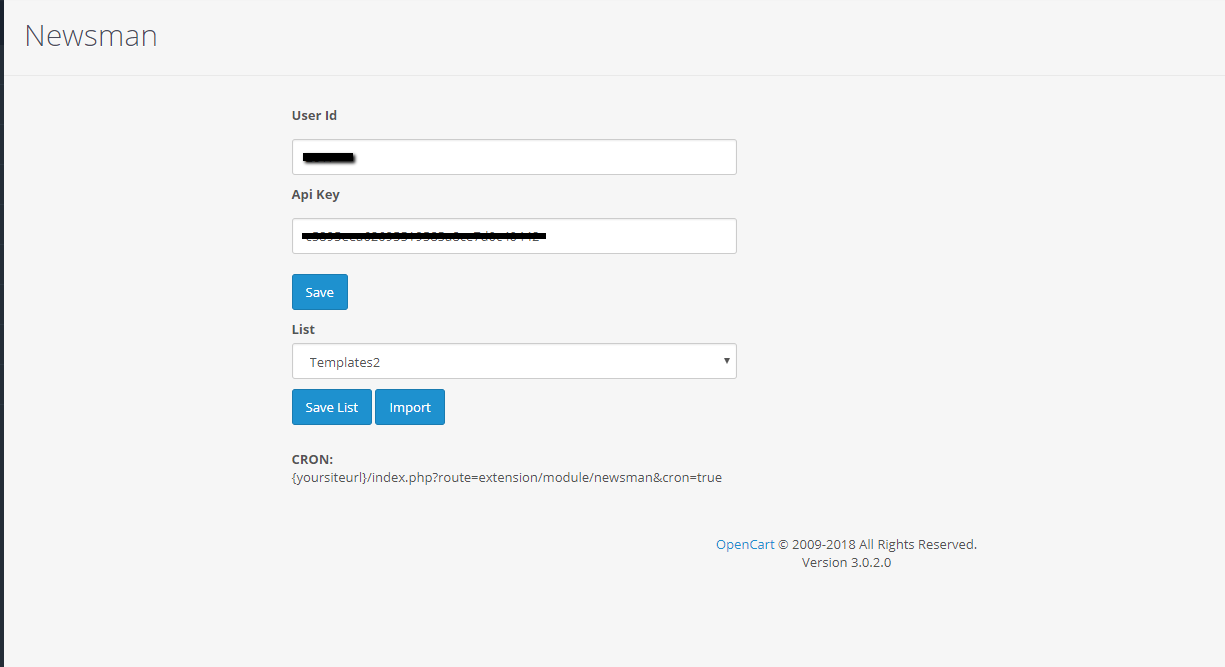
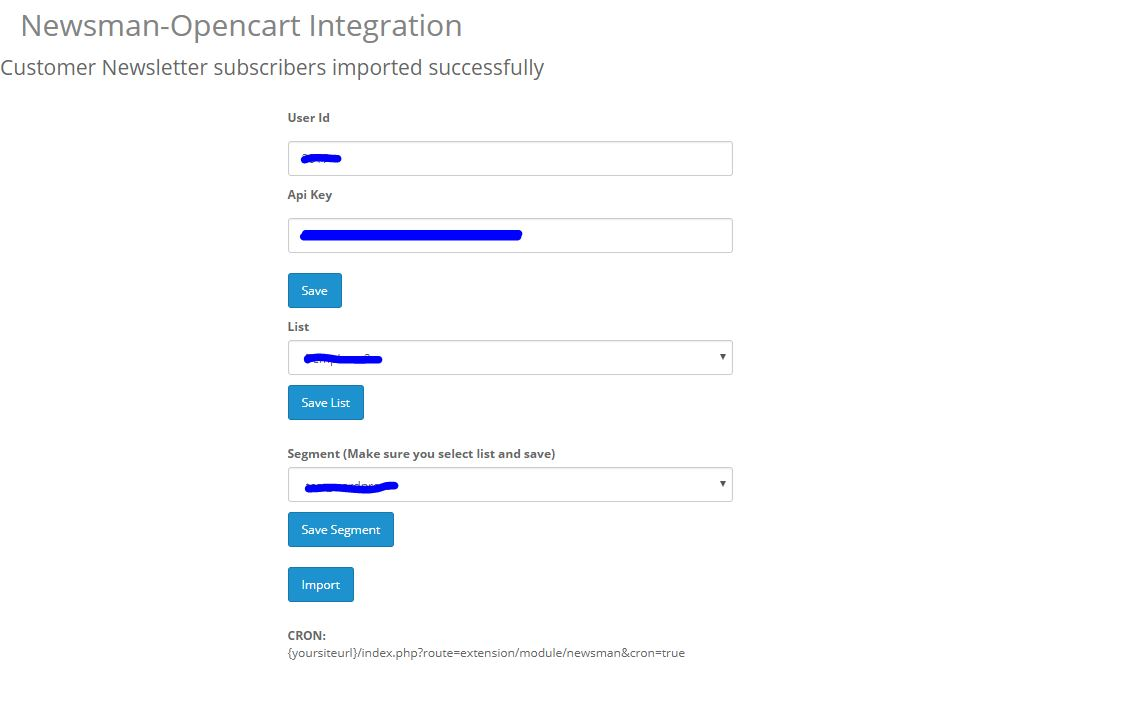
Add segment sync feature

diff --git a/src/admin/controller/extension/module/newsman.php b/src/admin/controller/extension/module/newsman.php
@@ -31,9 +31,11 @@ class ControllerExtensionModuleNewsman extends Controller
 		$data['column_left'] = $this->load->controller('common/column_left');
 		$data['footer'] = $this->load->controller('common/footer');
 		$data["button_save"] = "Save / Import";
+		$data["message"] = "";
 
 		if (isset($_POST["newsmanSubmit"]))
 		{
+			$this->restCall = "https://ssl.newsman.app/api/1.2/rest/{{userid}}/{{apikey}}/{{method}}";
 			$this->restCall = str_replace("{{userid}}", $_POST["userid"], $this->restCall);
 			$this->restCall = str_replace("{{apikey}}", $_POST["apikey"], $this->restCall);
 			$this->restCall = str_replace("{{method}}", "list.all.json", $this->restCall);
@@ -66,47 +68,67 @@ class ControllerExtensionModuleNewsman extends Controller
 			$data["message"] = "List is saved";
 		}
 
-		//List Import
+		if (isset($_POST["newsmanSubmitSaveSegment"]))
+		{
+			$settings = $setting;
+			$settings["newsmansegment"] = $_POST["segment"];
+
+			$this->model_setting_setting->editSetting('newsman', $settings);
+
+			$data["message"] = "Segment is saved";
+		}
+
+//List Import
 		if (isset($_POST["newsmanSubmitList"]))
 		{
+			$this->restCallParams = "https://ssl.newsman.app/api/1.2/rest/{{userid}}/{{apikey}}/{{method}}{{params}}";
 			$this->restCallParams = str_replace("{{userid}}", $setting["newsmanuserid"], $this->restCallParams);
 			$this->restCallParams = str_replace("{{apikey}}", $setting["newsmanapikey"], $this->restCallParams);
 			$this->restCallParams = str_replace("{{method}}", "import.csv.json", $this->restCallParams);
-
 			$client = new Newsman_Client($setting["newsmanuserid"], $setting["newsmanapikey"]);
-
 			$csvdata = array();
-
 			$this->load->model('customer/customer');
 			$csvdata = $this->model_customer_customer->getCustomers();
-
-			$csv = "email,name,source" . PHP_EOL;
-			foreach ($csvdata as $row)
+			if (empty($csvdata))
 			{
-				if($row["newsletter"] == "1" && $row["status"] == "1")
+				$data["message"] .= PHP_EOL . "No customers in your store";
+				$this->SetOutput($data);
+				return;
+			}
+			//Import
+			$batchSize = 5000;
+			$customers_to_import = array();
+			$segments = null;
+			if ($setting["newsmansegment"] != "1" && $setting["newsmansegment"] != null)
+			{
+				$segments = array($setting["newsmansegment"]);
+			}
+			foreach ($csvdata as $item)
+			{
+				$customers_to_import[] = array(
+					"email" => $item["email"],
+					"firstname" => $item["firstname"]
+				);
+				if ((count($customers_to_import) % $batchSize) == 0)
 				{
-					$csv .= $row['email'] . ","
-						. $row['firstname'] . " " . $row["lastname"] . ","
-						. "opencart3 newsman plugin"
-						. PHP_EOL;
+					$this->_importData($customers_to_import, $setting["newsmanlistid"], $segments, $client);
 				}
 			}
+			if (count($customers_to_import) > 0)
+			{
+				$this->_importData($customers_to_import, $setting["newsmanlistid"], $segments, $client);
+			}
+			unset($customers_to_import);
 
-			$ret = $client->import->csv($setting["newsmanlistid"], array(), $csv);
-
-			/*$this->restCallParams = str_replace("{{params}}", "?list_id=" . $_POST["list"] . "&segments=" . "&csv_data=" . $csv, $this->restCallParams);
-die($this->restCallParams);
-			$_data = json_decode(file_get_contents($this->restCallParams), true);
-			*/
-
-			$data["message"] = "Imported successfully";
+			$data["message"] .= PHP_EOL . "Customer Newsletter subscribers imported successfully";
 		}
 		//List Import
 
-		$setting = $this->model_setting_setting->getSetting('newsman');
+		/*$setting = $this->model_setting_setting->getSetting('newsman');
 
 		if (!empty($setting["newsmanuserid"]) && !empty($setting["newsmanapikey"]))
 		{
+			$this->restCall = "https://ssl.newsman.app/api/1.2/rest/{{userid}}/{{apikey}}/{{method}}";
 			$this->restCall = str_replace("{{userid}}", $setting["newsmanuserid"], $this->restCall);
 			$this->restCall = str_replace("{{apikey}}", $setting["newsmanapikey"], $this->restCall);
 			$this->restCall = str_replace("{{method}}", "list.all.json", $this->restCall);
@@ -117,18 +139,59 @@ die($this->restCallParams);
 
 			foreach ($_data as $list)
 			{
-				if(!empty($setting["newsmanlistid"]) && $setting["newsmanlistid"] == $list["list_id"])
+				if (!empty($setting["newsmanlistid"]) && $setting["newsmanlistid"] == $list["list_id"])
 				{
 					$data["list"] .= "<option selected value='" . $list["list_id"] . "'>" . $list["list_name"] . "</option>";
-				}
-				else{
+				} else
+				{
 					$data["list"] .= "<option value='" . $list["list_id"] . "'>" . $list["list_name"] . "</option>";
 				}
 			}
 
 			$data["newsmanuserid"] = $setting["newsmanuserid"];
 			$data["newsmanapikey"] = $setting["newsmanapikey"];
+		}*/
+
+		$setting = $this->model_setting_setting->getSetting('newsman');
+		if (!empty($setting["newsmanuserid"]) && !empty($setting["newsmanapikey"]))
+		{
+			$this->restCall = str_replace("{{userid}}", $setting["newsmanuserid"], $this->restCall);
+			$this->restCall = str_replace("{{apikey}}", $setting["newsmanapikey"], $this->restCall);
+			$this->restCall = str_replace("{{method}}", "list.all.json", $this->restCall);
+			$this->restCallParams = "https://ssl.newsman.app/api/1.2/rest/{{userid}}/{{apikey}}/{{method}}{{params}}";
+			$this->restCallParams = str_replace("{{userid}}", $setting["newsmanuserid"], $this->restCallParams);
+			$this->restCallParams = str_replace("{{apikey}}", $setting["newsmanapikey"], $this->restCallParams);
+			$_data = json_decode(file_get_contents($this->restCall), true);
+			$data["list"] = "";
+			$data["segment"] = "";
+			$data["segment"] .= "<option value='1'>No segment</option>";
+			foreach ($_data as $list)
+			{
+				if (!empty($setting["newsmanlistid"]) && $setting["newsmanlistid"] == $list["list_id"])
+				{
+					$data["list"] .= "<option selected value='" . $list["list_id"] . "'>" . $list["list_name"] . "</option>";
+					$this->restCallParams = str_replace("{{method}}", "segment.all.json", $this->restCallParams);
+					$this->restCallParams = str_replace("{{params}}", "?list_id=" . $setting["newsmanlistid"], $this->restCallParams);
+					$_data = json_decode(file_get_contents($this->restCallParams), true);
+					foreach ($_data as $segment)
+					{
+						if (!empty($setting["newsmansegment"]) && $setting["newsmansegment"] == $segment["segment_id"])
+						{
+							$data["segment"] .= "<option selected value='" . $segment["segment_id"] . "'>" . $segment["segment_name"] . "</option>";
+						} else
+						{
+							$data["segment"] .= "<option value='" . $segment["segment_id"] . "'>" . $segment["segment_name"] . "</option>";
+						}
+					}
+				} else
+				{
+					$data["list"] .= "<option value='" . $list["list_id"] . "'>" . $list["list_name"] . "</option>";
+				}
+			}
 		}
+
+		$data["userid"] = (empty($setting["newsmanuserid"])) ? "" : $setting["newsmanuserid"];
+		$data["apikey"] = (empty($setting["newsmanapikey"])) ? "" : $setting["newsmanapikey"];
 
 		$htmlOutput = $this->load->view('extension/module/newsman', $data);
 		$this->response->setOutput($htmlOutput);
@@ -137,6 +200,39 @@ die($this->restCallParams);
 	public
 	function validate()
 	{
+	}
+
+	public static function safeForCsv($str)
+	{
+		return '"' . str_replace('"', '""', $str) . '"';
+	}
+
+	public function _importData(&$data, $list, $segments = null, $client)
+	{
+		$csv = '"email","firstname","source"' . PHP_EOL;
+		$source = self::safeForCsv("opencart 3 newsman plugin");
+		foreach ($data as $_dat)
+		{
+			$csv .= sprintf(
+				"%s,%s,%s",
+				self::safeForCsv($_dat["email"]),
+				self::safeForCsv($_dat["firstname"]),
+				$source
+			);
+			$csv .= PHP_EOL;
+		}
+		$ret = null;
+		try
+		{
+			$ret = $client->import->csv($list, $segments, $csv);
+			if ($ret == "")
+			{
+				throw new Exception("Import failed");
+			}
+		} catch (Exception $e)
+		{
+		}
+		$data = array();
 	}
 
 	protected

diff --git a/src/catalog/controller/extension/module/newsman.php b/src/catalog/controller/extension/module/newsman.php
@@ -19,38 +19,84 @@ class ControllerExtensionmoduleNewsman extends Controller
 		//List Import
 		if ($_GET["cron"] == "true")
 		{
+			$this->restCallParams = "https://ssl.newsman.app/api/1.2/rest/{{userid}}/{{apikey}}/{{method}}{{params}}";
 			$this->restCallParams = str_replace("{{userid}}", $setting["newsmanuserid"], $this->restCallParams);
 			$this->restCallParams = str_replace("{{apikey}}", $setting["newsmanapikey"], $this->restCallParams);
 			$this->restCallParams = str_replace("{{method}}", "import.csv.json", $this->restCallParams);
-
 			$client = new Newsman_Client($setting["newsmanuserid"], $setting["newsmanapikey"]);
-
-			$csvdata = array();
-
 			$csvdata = $this->getCustomers();
-
-			$csv = "email,name,source" . PHP_EOL;
-			foreach ($csvdata as $row)
+			if (empty($csvdata))
 			{
-				if ($row["newsletter"] == "1" && $row["status"] == "1")
+				$data["message"] .= PHP_EOL . "No customers in your store";
+				$this->SetOutput($data);
+				return;
+			}
+			//Import
+			$batchSize = 5000;
+			$customers_to_import = array();
+			$segments = null;
+			if ($setting["newsmansegment"] != "1" && $setting["newsmansegment"] != null)
+			{
+				$segments = array($setting["newsmansegment"]);
+			}
+			foreach ($csvdata as $item)
+			{
+				$customers_to_import[] = array(
+					"email" => $item["email"],
+					"firstname" => $item["firstname"]
+				);
+				if ((count($customers_to_import) % $batchSize) == 0)
 				{
-					$csv .= $row['email'] . ","
-						. $row['firstname'] . " " . $row["lastname"] . ","
-						. "opencart3 newsman plugin"
-						. PHP_EOL;
+					$this->_importData($customers_to_import, $setting["newsmanlistid"], $segments, $client);
 				}
 			}
+			if (count($customers_to_import) > 0)
+			{
+				$this->_importData($customers_to_import, $setting["newsmanlistid"], $segments, $client);
+			}
+			unset($customers_to_import);
 
-			$ret = $client->import->csv($setting["newsmanlistid"], array(), $csv);
-
-			/*$this->restCallParams = str_replace("{{params}}", "?list_id=" . $_POST["list"] . "&segments=" . "&csv_data=" . $csv, $this->restCallParams);
-die($this->restCallParams);
-			$_data = json_decode(file_get_contents($this->restCallParams), true);
-			*/
+			echo "Cron successfully executed";
+		}
+		else{
+			echo "Missing cron url required param, check plugin instructions for cron";
 		}
 		//List Import
 
 		return $this->load->view('extension/module/newsman', $data);
+	}
+
+	public static function safeForCsv($str)
+	{
+		return '"' . str_replace('"', '""', $str) . '"';
+	}
+
+	public function _importData(&$data, $list, $segments = null, $client)
+	{
+		$csv = '"email","firstname","source"' . PHP_EOL;
+		$source = self::safeForCsv("opencart 3 newsman plugin");
+		foreach ($data as $_dat)
+		{
+			$csv .= sprintf(
+				"%s,%s,%s",
+				self::safeForCsv($_dat["email"]),
+				self::safeForCsv($_dat["firstname"]),
+				$source
+			);
+			$csv .= PHP_EOL;
+		}
+		$ret = null;
+		try
+		{
+			$ret = $client->import->csv($list, $segments, $csv);
+			if ($ret == "")
+			{
+				throw new Exception("Import failed");
+			}
+		} catch (Exception $e)
+		{
+		}
+		$data = array();
 	}
 
 	public function getCustomers($data = array())
